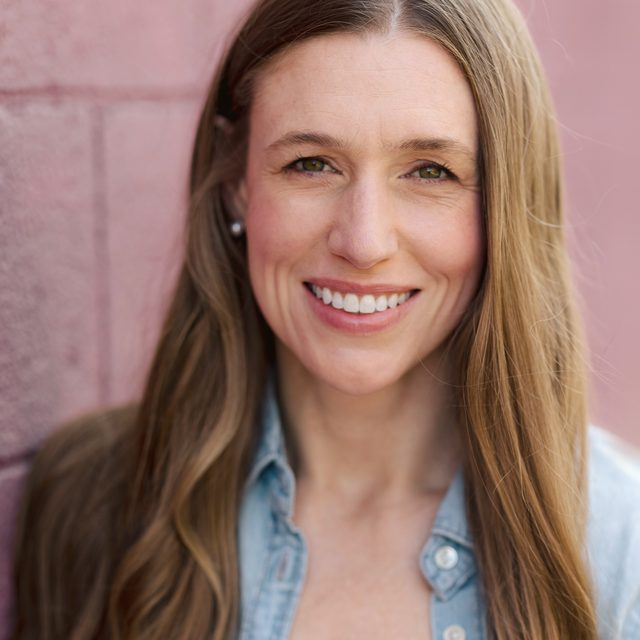
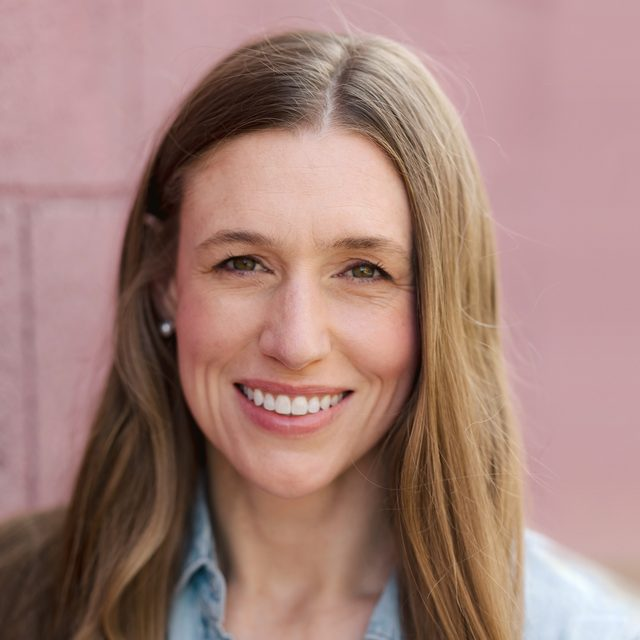
Recrop the headshot, fix the odd font, reword the LinkedIn line
The headshot was cropped from megan_headshot_business_square_teal.jpg, and
that packaged square is cut so tight that the top of her head is already gone
before any circular mask applies, so the round avatar looked like the crown
had been sliced off. Recropped from the full master instead, off measured
landmarks rather than by eye: crown y=300, eye line y=1560, chin y=2732, face
centre x=3100 in source pixels. A 4193px square from y=0 puts the head at 58%
of the frame and the eyes at 37% from the top, which is the standard framing
for a round avatar, with the full crown and headroom above and shoulders
anchoring the bottom. Judged against two other candidates rendered as actual
circles rather than as squares, since the circle is what ships.

One paragraph on /about/ rendered in the body sans while every other .sub on
the site rendered in Crimson Pro. There was no base rule for .sub at all:
.hero .sub and .cta .sub each opted into the serif individually, and .how .sub
was never given a rule, so it silently inherited the body font at 16px. The
class now carries the intent, and the section rules still win on specificity,
so a section added later cannot fall through the same hole. Verified by
computed style: all three .sub are now Crimson Pro at 17.6px, where one was
Schibsted Grotesk at 16px.

"Most of it is on GitHub as megwarren8, and the working history is on
LinkedIn" read as though the working history were the commit history, since
[…]

diff --git a/about/index.html b/about/index.html
@@ -219,7 +219,7 @@
           </div>
           <div class="how-item">
             <div class="k">Source, in public</div>
-            <div class="v">Most of it is on <a href="https://github.com/megwarren8" target="_blank" rel="noopener">GitHub as megwarren8</a>, and the working history is on <a href="https://www.linkedin.com/in/megan-warren-boston/" target="_blank" rel="me noopener">LinkedIn</a>. The private work stays private: a client's discovery logic is part of what they paid for.</div>
+            <div class="v">Most of it is on <a href="https://github.com/megwarren8" target="_blank" rel="noopener">GitHub as megwarren8</a>. The jobs, dates and recommendations are on <a href="https://www.linkedin.com/in/megan-warren-boston/" target="_blank" rel="me noopener">LinkedIn</a>. The private work stays private: a client's discovery logic is part of what they paid for.</div>
           </div>
           <div class="how-item">
             <div class="k">Twelve years in the room</div>

diff --git a/shared.css b/shared.css
@@ -495,3 +495,13 @@ footer{border-top:1px solid var(--border-soft);padding:26px 0 40px;}
 .portrait{display:block;margin:0 0 18px;width:160px;height:160px;}
 .portrait img{width:160px;height:160px;border-radius:50%;object-fit:cover;
 display:block;box-shadow:0 2px 14px rgba(16,32,56,.16);}
+
+/* Base rule for .sub. There wasn't one: .hero .sub and .cta .sub each opted
+   into the serif individually, and .how .sub was never given a rule, so that
+   one paragraph silently fell back to the body sans at 16px while every other
+   .sub on the site rendered as Crimson Pro at 17.6px. Setting the intent on
+   the class means a section added later inherits it instead of having to
+   remember. The section rules are more specific, so they still win on size
+   and spacing. */
+.sub{font-family:var(--serif);color:var(--mid);line-height:1.62;max-width:58ch;
+font-size:clamp(1.1rem,1.8vw,1.3rem);}
